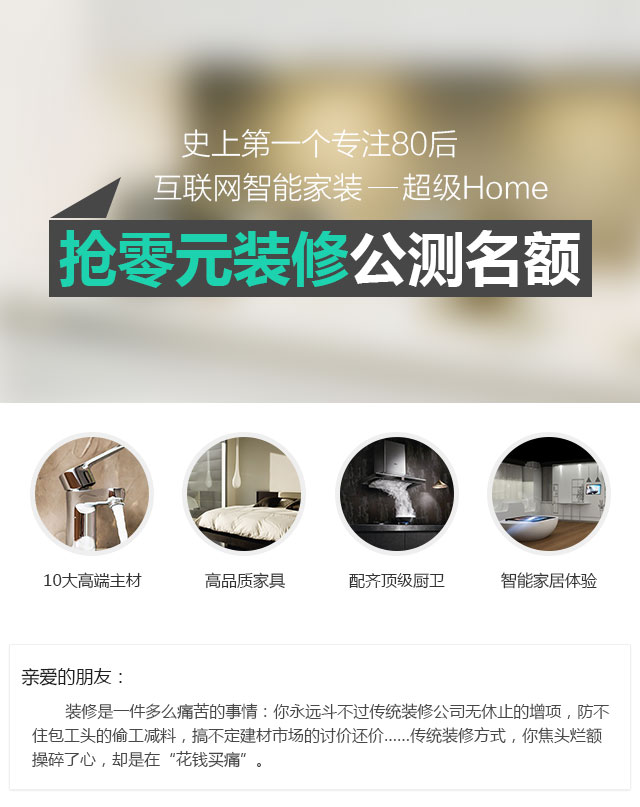
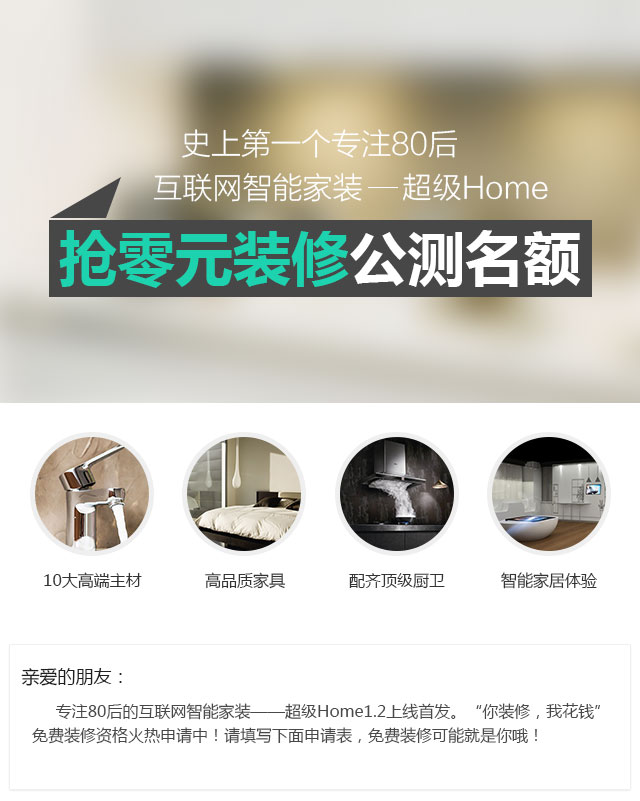
add zero

diff --git a/static/css/activity/zero/detail.css b/static/css/activity/zero/detail.css
@@ -1,0 +1,228 @@
+html{
+    height:1%;
+}
+body{
+    background: none;
+    background-color: #fff;
+    font-family: "Microsoft Yahei",Arial,Helvetica,sans-serif;
+    font-size: 14px;
+    margin: 0;
+    padding: 0;
+    -webkit-text-size-adjust: none;
+    -webkit-box-orient: vertical;
+    -webkit-box-align: stretch;
+    display: -webkit-box;
+}
+
+body input,body textarea{
+    font-family:"Microsoft Yahei",Arial,Helvetica,sans-serif;
+    background-color: #fff;
+    outline: none;
+}
+div, h1, h2, h3, h4, p, form, label, input, textarea, img, span,dl,ul,li{
+    margin: 0;
+    padding: 0;
+    border: 0;
+    list-style: none;
+}
+a{
+    color: #515151;
+    text-decoration:none;
+}
+a:hover {
+    color: #000;
+    text-decoration:none;
+}
+a:focus {
+    outline:none;
+    -moz-outline:none;
+}
+*, *:before, *:after {
+    -webkit-user-select: none;
+    -webkit-tap-highlight-color: rgba(0, 0, 0, 0);
+    -moz-tap-highlight-color: rgba(0, 0, 0, 0);
+    -moz-user-select: -moz-none;
+    -webkit-touch-callout: none;
+    margin: 0;
+    padding: 0;
+    -webkit-box-sizing: border-box;
+    -moz-box-sizing: border-box;
+    box-sizing: border-box;
+    -ms-touch-action: pan-y;
+}
+body, html {
+    -ms-overflow-style: none !important;
+    width: 100%;
+}
+
+input, textarea {
+    -webkit-user-select: text;
+    -moz-user-select: -moz-text;
+    -moz-user-select: text;
+}
+img {
+    border: none;
+}
+p {
+    display: block;
+    margin: 6px 0;
+    font-size: 14px;
+    line-height: 20px;
+    color: inherit;
+}
+
+.header{
+    width: 100%;
+}
+
+.header img{
+    width: 100%;
+    height: 100%;
+}
+
+.header_img{
+    display: block;
+    float: left;
+}
+
+.header_cw{
+    margin-top:-30%;
+    margin-left: 10%;
+    float: left;
+    color: #d5d4d4;
+    font-size: 12px;
+}
+
+.header_cw .cw_name{
+    font-size: 16px !important;
+    padding-right: 5px;
+}
+
+.header_cw strong{
+    color: #fd7657;
+    font-size: 15px;
+}
+
+.content {
+    width: 92%;
+    margin-left: 4%;
+    margin-top: 20px;
+    margin-bottom: 40px;
+}
+
+.content .content-tip{
+    width: 100%;
+    height: 40px;
+}
+
+.content .tip{
+    height: 38px;
+    float:left;
+    width: 8px;
+    background: #1dd2af;
+    margin-right: 4px;
+}
+
+.content .support{
+    float: left;
+    color: #fff;
+    font-size: 18px;
+    background: #1dd2af;
+    width: 42%;
+    height: 38px;
+    text-align: center;
+    padding-top: 6px;
+}
+
+.content .founder{
+    margin-top: 20px;
+    height: auto;
+    clear: both;
+}
+
+.content .user_img{
+    float: left;
+    width: 30%;
+}
+
+.content .slogan{
+    float: left;
+    width: 70%;
+    background: #e6e6e6;
+    border-radius: 5px;
+    margin-bottom: 20px;
+    padding: 10px 10px;
+}
+
+.slogan strong{
+    font-size:16px;
+    padding-right: 10px;
+}
+
+.slogan .table_top{
+    margin-bottom: 10px;
+}
+
+.slogan .table_top span{
+    font-size: 14px;
+    color: #bfbfbf;
+}
+
+.slogan .date{
+    margin-top: 10px;
+}
+
+.slogan p{
+    color: #656565;
+    font-size: 14px;
+}
+
+.slogan .date{
+    color: #bfbfbf;
+}
+
+.founder .bubble{
+    width: 0;
+    height: 0;
+    border-top: 6px solid transparent;
+    border-right: 12px solid #e6e6e6;
+    border-bottom: 6px solid transparent;
+    margin-left: -12px;
+    margin-top: 16px;
+    opacity: 0.8;
+    float: left;
+}
+
+.footer{
+    position: fixed;
+    height: 50px;
+    width: 100%;
+    background: #4c4c4c;
+    z-index: 100;
+    text-align: center;
+    bottom: 0;
+    display: block;
+}
+
+.footer .button{
+    background: #1dd2af;
+    margin-top: 12px;
+    border-radius: 5px;
+    color: #fff;
+    font-size: 16px;
+    padding-top: 4px;
+}
+
+.footer .button1{
+    width: 36%;
+    float: left;
+    height: 30px;
+    margin-left: 9%;
+}
+
+.footer .button2{
+    width: 36%;
+    float: right;
+    height: 30px;
+    margin-right: 9%;
+}

diff --git a/application/views/activity/zero/detail.php b/application/views/activity/zero/detail.php
@@ -1,0 +1,61 @@
+<!DOCTYPE html>
+<!--HTML5 doctype-->
+<html>
+<head>
+    <title>抢零元装修名额！</title>
+    <meta http-equiv="Content-type" content="text/html; charset=utf-8">
+    <meta name="viewport" content="width=device-width, initial-scale=1.0, maximum-scale=1.0, minimum-scale=1.0, user-scalable=0, minimal-ui">
+    <meta name="apple-mobile-web-app-capable" content="yes" />
+    <meta HTTP-EQUIV="Pragma" CONTENT="no-cache">
+    <meta content="telephone=no" name="format-detection" />
+    <meta http-equiv="X-UA-Compatible" content="IE=edge" />
+    <link rel="stylesheet" type="text/css" href="/static/css/activity/zero/detail.css" />
+</head>
+<body>
+<div class="header">
+    <div>
+        <img class="header_img" src="/static/image/activity/zero/detail_header.jpg">
+        <div class="header_cw">
+            <span class="cw_name">跨界松鼠</span>
+            <span>已众筹好友支持的<strong>188</strong>元</span>&nbsp;&nbsp;
+            <span>现在排名<strong>79</strong>位</span>
+        </div>
+    </div>
+    <img src="/static/image/activity/zero/detail_1.jpg">
+    <img src="/static/image/activity/zero/detail_2.jpg">
+    <img src="/static/image/activity/zero/detail_3.jpg">
+</div>
+<div class="content">
+    <div class="content-tip">
+        <div class="tip"></div>
+        <div class="support">支持你的好友</div>
+    </div>
+    <div class="founder">
+        <div class="user_img"><img src="/static/image/activity/zero/head.png"></div>
+        <div class="bubble"></div>
+        <div class="slogan">
+            <div class="table_top">
+                <strong>姜海涌</strong><span>发布了最新动态</span>
+            </div>
+            <p>亲爱的邻居们，感谢你们一路的支持，坚持就是胜利，有你们的支持我一定能够成功，加油！祝大家装修顺利，合家欢乐，开开心心！</p>
+            <div class="date">06-22 12:53</div>
+        </div>
+    </div>
+    <div class="founder">
+        <div class="user_img"><img src="/static/image/activity/zero/head.png"></div>
+        <div class="bubble"></div>
+        <div class="slogan">
+            <div class="table_top">
+                <strong>姜海涌</strong><span>支持了1元</span>
+            </div>
+            <p>亲爱的邻居们，感谢你们一路的支持，坚持就是胜利，有你们的支持我一定能够成功，加油！祝大家装修顺利，合家欢乐，开开心心！</p>
+            <div class="date">06-22 12:53</div>
+        </div>
+    </div>
+</div>
+<div class="footer">
+    <a href="###"><div class="button button1">支持Ta</div></a>
+    <a href="###"><div class="button button2">我也想要</div></a>
+</div>
+</body>
+</html>

diff --git a/application/models/Zero_model.php b/application/models/Zero_model.php
@@ -18,4 +18,61 @@ class Zero_Model extends CI_Model{
         }
     }
 
+    public function get_instance_by_id($id){
+        if($id <= 0) return array();
+
+        $this->master_db->select('id, wechat_uid');
+        $this->master_db->from($this->_dbname);
+        $this->master_db->where('id', $id);
+
+        $row = array();
+        if($query = $this->master_db->get()){
+            $row = $query->row_array();
+
+            if($user = $this->user->get_wechat_user_by_id($row['wechat_uid'])){
+                $row['nickname'] = $user['nick_name'];
+                $row['head_img_url'] = $user['head_img_url'];
+                $len = strlen($row['head_img_url']);
+                $row['head_img_url'][$len - 1] = '4';
+                $row['head_img_url'] .= '6';
+            }else{
+                return array();
+            }
+        }
+
+        return $row;
+    }
+
+    public function get_partin($user_id){
+        if($user_id <= 0) return array();
+        $this->master_db->select('*');
+        $this->master_db->from("activity_zero_partin");
+        $this->master_db->where('founder_id', $user_id);
+        $this->master_db->order_by('create_time', 'desc');
+        $this->master_db->limit(20);
+
+        $ret = array();
+        if($query = $this->master_db->get()){
+            foreach($query->result_array() as $row){
+                $tmp = array();
+                $tmp['name'] = $row['s_name'];
+                if($row['s_head_img_url']){
+                    $len = strlen($row['s_head_img_url']);
+                    $row['s_head_img_url'][$len - 1] = '4';
+                    $row['s_head_img_url'] .= '6';
+                    $tmp['head_img_url'] = $row['s_head_img_url'];
+                }else{
+                    $tmp['head_img_url'] = $row['s_head_img_url'];
+                }
+
+                $tmp['money'] = $row['money'];
+                $tmp['slogan'] = $this->generate_iphone_slogan($tmp['name'], $tmp['money']);
+
+                $ret[] = $tmp;
+            }
+        }
+
+        return $ret;
+    }
+
 }

diff --git a/application/controllers/activity/Zero.php b/application/controllers/activity/Zero.php
@@ -24,6 +24,10 @@ class Zero extends CI_Controller
         $this->load->view('activity/zero/index.php');
     }
 
+    public function detail($id){
+        $this->load->view('activity/zero/detail.php');
+    }
+
     public function found(){
         if(!$phone = $this->input->post('phone')){
             exit(json_encode(array(
@@ -109,6 +113,7 @@ class Zero extends CI_Controller
         }
 
         $this->load->model("zero_model", 'zero');
+        $this->load->model("user_model", 'user');
         $arr = array('name' => $name, 'decor_time' => $decor_time, 'acreage' => $acreage, 'phone' => $phone,
                     'province' => $province, 'city' => $city, 'district' => $district, 'house_type' => $state);
         if(($ret = $this->zero->insert_arr($arr)) > 0){
@@ -122,7 +127,7 @@ class Zero extends CI_Controller
         }else{
             exit(json_encode(array(
                     'code' => -20,
-                    'msg' => '预约失败',
+                    'msg' => 'fail',
                 )
             ));
         }
